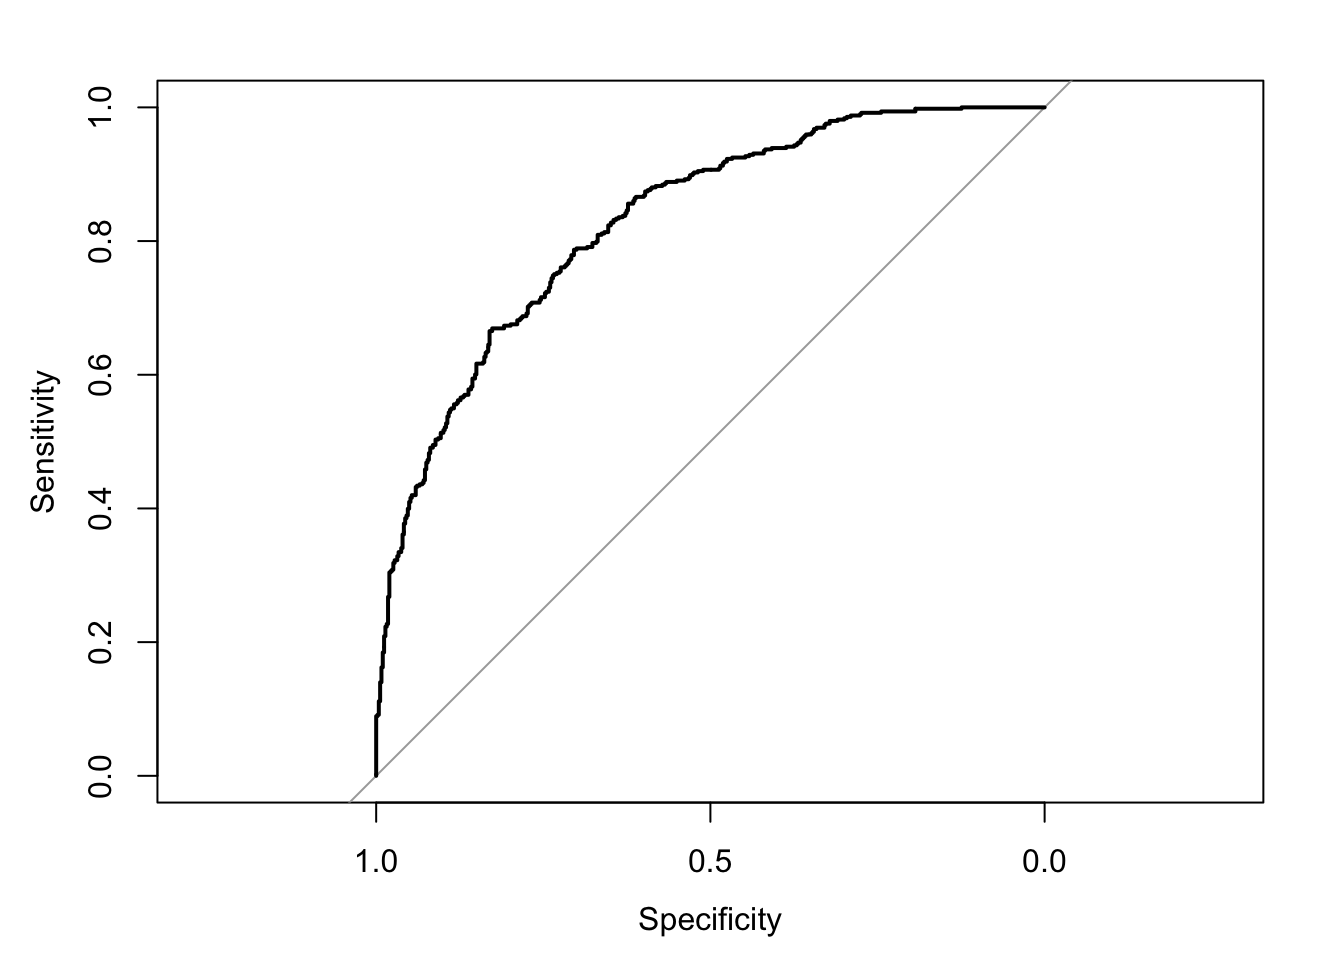
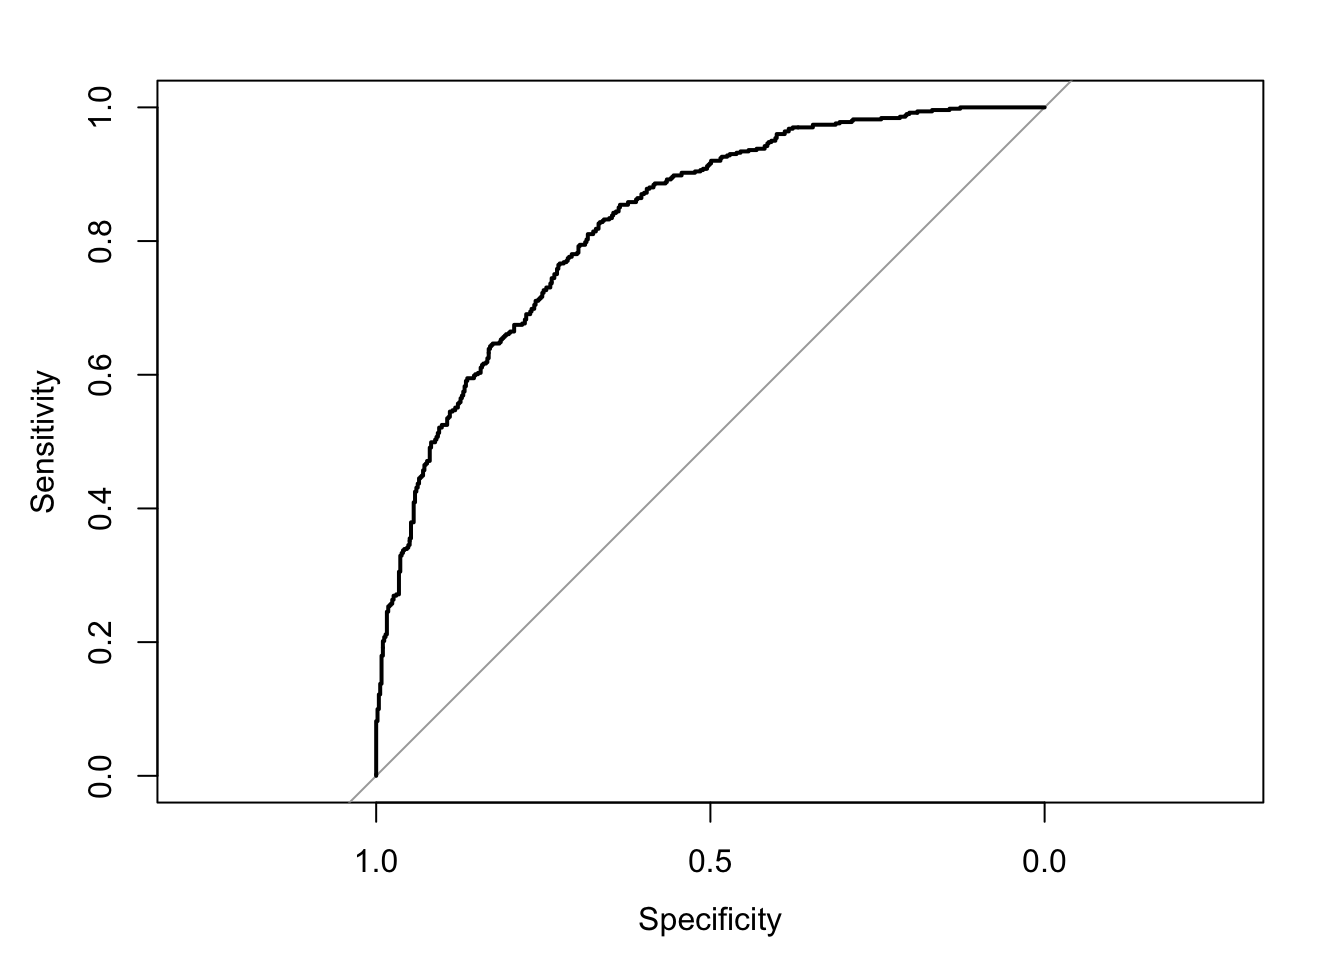
Saves indexfiles for calibration post

diff --git a/content/post/2021-10-11-calibration-vs-concordance/index.html b/content/post/2021-10-11-calibration-vs-concordance/index.html
@@ -85,7 +85,7 @@ dta$y_hat &lt;- predict(mod0, type = &#39;response&#39;) # predict probabilities
 <p><img src="{{< blogdown/postref >}}index_files/figure-html/unnamed-chunk-5-1.png" width="672" /></p>
 <p>As you can see I arrive at a . As you probably already know, a predictive model with anAUC above .8 is generally considered to be pretty good.</p>
 <pre class="r"><code>auc(roc0) # calculate AUC</code></pre>
-<pre><code>## Area under the curve: 0.8289</code></pre>
+<pre><code>## Area under the curve: 0.8292</code></pre>
 <p>In the real world, I would probably want to test this model using training/test split to evaluate how the model</p>
 </div>
 <div id="testing-model" class="section level2">
@@ -99,7 +99,7 @@ y &lt;- rbinom(n, 1 , pr_y)
 dta1 &lt;- data.frame(y,  x1, x2)
 
 
-# Make predictions based on original model 
+# Make predictions basexsd on original model 
 dta1$y_hat &lt;- predict( mod0, newdata =dta1, type = &#39;response&#39;)
 
 # Calculate AUC
@@ -107,7 +107,7 @@ roc1 &lt;- roc(dta1, &#39;y&#39;, &#39;y_hat&#39;) </code></pre>
 <pre><code>## Setting levels: control = 0, case = 1</code></pre>
 <pre><code>## Setting direction: controls &lt; cases</code></pre>
 <pre class="r"><code>auc(roc1)</code></pre>
-<pre><code>## Area under the curve: 0.8117</code></pre>
+<pre><code>## Area under the curve: 0.8467</code></pre>
 </div>
 <div id="calibration" class="section level2">
 <h2>Calibration</h2>
@@ -116,8 +116,8 @@ roc1 &lt;- roc(dta1, &#39;y&#39;, &#39;y_hat&#39;) </code></pre>
 <pre class="r"><code>calibrate_plot(dta1$y, dta1$y_hat, 0.05)</code></pre>
 <p><img src="{{< blogdown/postref >}}index_files/figure-html/unnamed-chunk-9-1.png" width="672" /></p>
 <pre class="r"><code>mean(dta1[dta1$y_hat &gt; .9 , ]$y)</code></pre>
-<pre><code>## [1] 0.8585859</code></pre>
+<pre><code>## [1] 0.9423077</code></pre>
 <pre class="r"><code>mean(dta[dta$y_hat &gt; .9 , ]$y)</code></pre>
-<pre><code>## [1] 0.9405941</code></pre>
+<pre><code>## [1] 0.9509804</code></pre>
 </div>
 </div>
